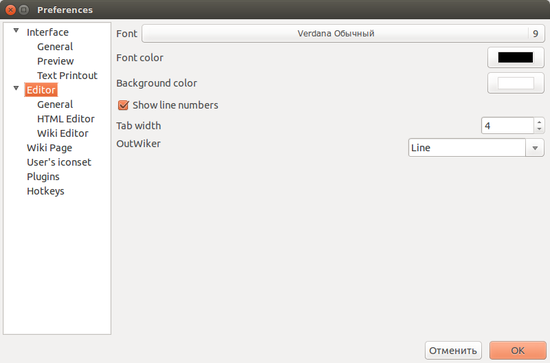
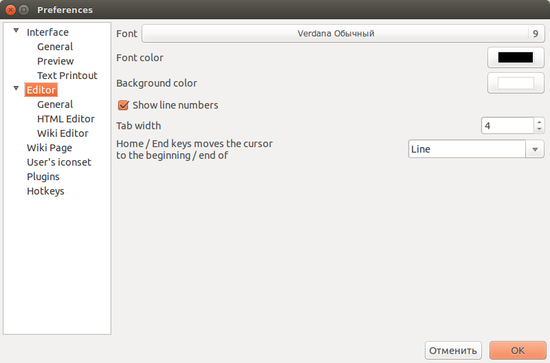
Addition to English help

Changed region(s): [[0.2164, 0.3636, 0.4945, 0.4545], [0.7418, 0.3636, 0.9891, 0.4545]]

diff --git a/src/help/help_en/Settings/__content.html b/src/help/help_en/Settings/__content.html
@@ -40,7 +40,7 @@ The portable mode switched on if <i>outwiker.ini</i> file exists in the same fol
 <br>
 If OutWiker executed in the normal mode, under <b>Windows 7</b> and above the <i>outwiker.ini</i> file will be locating in the <i>C:\Users\USERNAME\AppData\Roaming\outwiker</i> or analogous user's profile folder. In the same place will be locating folders for the plug-ins, user's styles and icons.<br>
 <br>
-Under <b>Linux</b> settings file location is able to depend on the <i>XDG_CONFIG_HOME</i> environment variable. If the <i>XDG_CONFIG_HOME</i> environment variable is not setted, <i>outwiker.ini</i> file will be located from <i>~/.config/outwiker/outwiker.ini</i>.<br>
+Under <b>Linux</b> settings file location is able to depend on the <i>XDG_CONFIG_HOME</i> environment variable. If the <i>XDG_CONFIG_HOME</i> environment variable is not set, <i>outwiker.ini</i> file will be located from <i>~/.config/outwiker/outwiker.ini</i>.<br>
 <br>
 Later in this section will be described the preferences. The dialog for the change preferences is called by <b>Edit - Preferences...</b> menu item.<br>
 <br>
@@ -49,116 +49,126 @@ Later in this section will be described the preferences. The dialog for the chan
 <br>
 <div align="center"><a href="__attach/outwiker_opt_01.png"><img src="__attach/__thumb/th_width_550_outwiker_opt_01.png"/></a></div><br>
 <br>
-Первые несколько флажков предназначены для установки поведения иконки программы в трее (области рядом с часами под Windows).<br>
+The first flags destined for the change behavior a program icon in the tray (the region near the system clock under Windows).<br>
 <br>
-Если установлен флажок <b>Сворачивать в трей</b>, то при нажатии кнопки "Свернуть" главного окна, OutWiker не будет отображаться на панели задач, но появится значок в трее. Такое поведение удобно в тех случаях, когда программа у вас запущена бо&#769;льшую часть времени.<br>
+If <b>Minimize to tray</b> flag is set, when the "Minimize" button of the main window will be clicked, the main window will be hidden on the taskbar, but program icon will be showed in the tray panel. Such behavior is convenient if OutWiker is launching most of the time.<br>
 <br>
-Флажок <b>Запускаться свернутым в трей</b> указывает программе, что при ее запуске нужно сразу скрыть главное окно. Это может быть удобно в тех случаях, если OutWiker у вас запускается из автозагрузки при старте операционной системы.<br>
+The <b>Start iconized</b> flag indicates what OutWiker must hide main window by starting. Such behavior is convenient if OutWiker was added to system autorun.<br>
 <br>
-Флажок <b>Всегда показывать иконку в трее</b> указывает программе, что данная иконка должна быть видна всегда, а не только когда программа находится в свернутом состоянии.<br>
+The <b>Always show tray icon</b> flag indicated what the tray icon must by showed always and not only in the minimized state.<br>
 <br>
-Если установлен флажок <b>Сворачивать при закрытии окна</b>, то при нажатии кнопки закрытия главного окна программа не будет завершаться, а только лишь сворачиваться. Для выхода из программы нужно будет использовать пункт меню <b>Файл - Выход...</b><br>
+The <b>Minimize on close window</b> flag indicated what the program must not closed but minimize only. That to terminate OutWiker, it is necessary select <b>File - Exit...</b> menu item.<br>
 <br>
-Если установлен флажок <b>Спрашивать подтверждение перед выходом</b>, то программа перед тем как завершить свою работу спросит у вас, действительно ли вы хотите выйти из программы. Поскольку все данные OutWiker сохраняет достаточно часто, а такие подтверждения нужны в первую очередь для того, чтобы не потерять введенные данные, то особого смысла от наличия этой настройки нет, возможно, в будущем она будет убрана.<br>
+The <b>Ask befor exit</b> flag indicated what the program must ask the exit confirmation. So long as OutWiker saves the notes text sufficiently oft, and such confirmations in the others programs need to save the entered data, the purport of this behavior is no matter. Is possible this flag will be removed in the next versions.<br>
 <br>
-Поле ввода <b>Интервал автосохранения</b> устанавливает как часто будет сохраняться открытая в данный момент заметка. Эта величина задается в секундах, если она равна 0, то автосохранение по таймеру будет отключено. Кроме как по таймеру, заметки сохраняются и при других событиях: при выходе из программы, при переключении между заметками, при переключении между вкладками "Вики", "Просмотр" и "HTML" и др.<br>
+The <b>Autosave interval</b> input field sets how often a current note will have saved. This value is set in seconds. If this value equal 0, autosaving will be disabled. Besides by timer the notes are saving by other events: by exit from program, switching between notes, switching between "Wiki", "Preview" and "HTML" tabs and other.<br>
 <br>
-Поле ввода <b>Длина истории открытых файлов</b> устанавливает насколько длинным должен быть список последних открытых вики в меню <b>Файл</b>.<br>
+The <b>Recent files history length</b> input field sets so far as long must be list of the recent opened files in the <b>File</b> menu.<br>
 <br>
-Если установлен флажок <b>При запуске открывать последний открытый файл</b>, то после перезапуска программы вам не придется заново искать и открывать список заметок, который был открыт в прошлый раз - он будет открыт автоматически.<br>
+If the <b>Automatically open the recent file</b> flag have set, then after restart OutWiker the recent wiki will be opened automatically.<br>
 <br>
-Поле ввода <b>Формат заголовка главного окна</b> позволяет установить, как должен выглядеть заголовок главного окна программы. В данном поле можно использовать макросы подстановки <b>{page}</b> и <b>{file}</b>, которые будут заменены на заголовок текущей страницы и дерева заметок в целом соответственно.<br>
+The <b>Main window title format</b> input field sets how should look title of the main window. In this field can use the macros <b>{page}</b> and <b>{file}</b> what will be replaced to title of the current page and title of the notes tree accordingly.<br>
 <br>
-С помощью поля ввода <b>Формат даты и времени</b> можно установить формат, в котором будут отображаться даты создания и редактирования страниц в различных частях программы, например, справа в статусной панели. OutWiker использует формат даты и времени, <a href="https://docs.python.org/2/library/datetime.html#strftime-and-strptime-behavior">применяемый в языке Python</a>, но запоминать его не нужно, поскольку справа от поля ввода есть кнопка, при нажатии на которую будет открыто меню, содержащее все возможные элементы данного формата.<br>
+The <b>Main window title format</b> input field sets how should look the creation and modification dates in different program parts, for example to the right in statusbar. OutWiker uses date format from <a href="https://docs.python.org/2/library/datetime.html#strftime-and-strptime-behavior">Python language</a>, but it should't remember since to the right of the input field disposes button, that invokes popup menu with all macros from this format.<br>
 <br>
-С помощью переключателя <b>Язык</b> можно выбрать один из поддерживаемых языков интерфейса. Если выбран пункт "Авто", то язык будет выбиратсья автоматически в зависимости от настроек операционной системы. Если вы хотите помочь перевести интерфейс программы на какой-нибудь еще язык, то это можно сделать с помощью веб-сервиса <a href="https://crowdin.com/project/outwiker">crowdin.com</a>.<br>
+The <b>Language</b> field sets the interface language. If this field was being set to "Auto", the language will be selected automatically depending on the operating system settings. If you want to translate interface to other language, you can use <a href="https://crowdin.com/project/outwiker">crowdin.com</a> web service.<br>
+<br>
 <br>
 <h2><a id="view"></a> Interface - Preview</h2>
 <br>
 <div align="center"><a href="__attach/outwiker_opt_02.png"><img src="__attach/__thumb/th_width_550_outwiker_opt_02.png"/></a></div><br>
 <br>
-Данная вкладка отвечает за общий внешний вид <a href="page://__0cc8f2c6-754c-4aa8-b118-561b930e9955">HTML-страницы</a> и <a href="page://__dd8b23a1-6787-42bb-9b58-c78a656688e2">викистраниц</a> в режиме просмотра. Здесь можно задать размер и начертание шрифта (группа параметров <b>Шрифт</b>), который будет использоваться на странице по умолчанию, а также добавить CSS-стили, которые будут вставлены во все страницы данного типа.<br>
+This section is responsible for the appearance <a href="page://__0cc8f2c6-754c-4aa8-b118-561b930e9955">HTML pages</a> and <a href="page://__dd8b23a1-6787-42bb-9b58-c78a656688e2">wiki pages</a> in preview mode. In this section can set default font size and style (by parameters group <b>Font</b>) as well as add custom CSS styles which will be added to all pages referred above types.<br>
+<br>
 <br>
 <h2><a id="print"></a> Interface - Text Printout</h2>
 <br>
 <div align="center"><a href="__attach/outwiker_opt_03.png"><img src="__attach/__thumb/th_width_550_outwiker_opt_03.png"/></a></div><br>
 <br>
-Данный раздел позволяет настроить параметры печати текстовых заметок, а также <a href="page://__0cc8f2c6-754c-4aa8-b118-561b930e9955">HTML-страниц</a> в режиме <i>HTML</i> и <a href="page://__dd8b23a1-6787-42bb-9b58-c78a656688e2">викистраниц</a> в режимах <i>Вики</i> и <i>HTML</i>.<br>
+This section allow to change parameters of the printing of the <a href="page://__b32aa743-384d-493f-aad4-4c4cbf945fbb">text pages</a> as well as <a href="page://__0cc8f2c6-754c-4aa8-b118-561b930e9955">HTML pages</a> in <i>HTML</i> mode and <a href="page://__dd8b23a1-6787-42bb-9b58-c78a656688e2">wiki pages</a> in <i>Wiki</i> and <i>HTML</i> modes.<br>
 <br>
-На этой вкладке можно настроить размер и начертание шрифта (группа параметров <b>Шрифт</b>), которым будет печататься текст, а также задать параметры страницы. Внешний вид диалога печати будет различаться в зависимости от операционной системы и драйверов к принтеру.<br>
+In this section can change font size and style (the parameters group <b>Font</b>), using which will be printed text, also can change page parameters. Dialog appearance may vary depending on operating system and printer drivers.<br>
 <br>
+ <br>
 <h2><a id="editor"></a> Editor - General</h2>
 <br>
 <div align="center"><a href="__attach/outwiker_opt_04.png"><img src="__attach/__thumb/th_width_550_outwiker_opt_04.png"/></a></div><br>
 <br>
-Данный раздел содержит настройки текстового редактора, который используется для ввода заметок. Здесь можно задать начертание и размер шрифта (группа параметров <b>Шрифт</b>), а кроме того установить цвет фона редактора (параметр <b>Цвет фона</b>) и подходящий для данного фона цвет шрифта (параметр <b>Цвет шрифта</b>). Например, вы можете установить инверсную цветовую гамму, когда фон отображается черным цветом, а шрифт белым.<br>
+This section contains settings for the text editor, which uses for input the notes. Here can set font size, style and color (the parameters group <b>Font</b>) and background color (the parameters group <b>Font color</b>). For example you can set inverted colors: black background and white text color.<br>
 <br>
-Здесь же можно включить или отключить отображение номеров строк заметок, установив или сбросив флажок <b>Показывать номера строк</b>. Номера строк располагаются слева от основного поля ввода заметок.<br>
+Here can enable or disable the display of line numbers (by <b>Show line numbers</b> flag). The line numbers located on the left of the main input field.<br>
 <br>
-С помощью параметра <b>Размер табуляции</b> можно установить ширину символа табуляции.<br>
+The <b>Tab width</b> parameter allow to change size of the tab symbol.<br>
 <br>
-Текстовый редактор может реагировать на нажатие клавиш Home / End двумя способами, либо при нажатии этих клавиш курсор будет перемещаться на начало / в конец текущей строки, либо на начало / в конец текущего абзаца (с учетом переноса строк). Это поведение переключается с помощью выпадающего списка <b>Клавиши Home / End переносят курсор к началу / концу... Строки / Абзаца</b>.<br>
+Editor can respond on the Home / End keys two ways. When this keys are pressed the cursor will be moved to begin / end current line or current paragraph (in view of wrapping). This behavior can select with <b>Home / End keys moves the cursor to the beginning / end of... </b> parameter.<br>
+<br>
 <br>
 <h2><a id="htmleditor"></a> Editor - HTML Editor</h2>
 <br>
 <div align="center"><a href="__attach/outwiker_opt_05.png"><img src="__attach/__thumb/th_width_550_outwiker_opt_05.png"/></a></div><br>
 <br>
-Данный раздел содержит настройки для раскраски HTML-кода на <a href="page://__0cc8f2c6-754c-4aa8-b118-561b930e9955">HTML-странице</a> или на вкладке <i>HTML</i> <a href="page://__dd8b23a1-6787-42bb-9b58-c78a656688e2">викистраницы</a>. Здесь можно задать цвета и начертание шрифта для HTML-тегов, их атрибутов, чисел, HTML-комментариев, строк в формате HTML, а также ошибочных HTML-элементов.<br>
+This section contains settings for HTML code highliting on the <a href="page://__0cc8f2c6-754c-4aa8-b118-561b930e9955">HTML page</a> and on <i>HTML</i> tab for <a href="page://__dd8b23a1-6787-42bb-9b58-c78a656688e2">wiki page</a>. Here can change font colors and styles for HTML tags, their attributes, numbers, comments, strings in HTML format and invalid HTML elements.<br>
 <br>
-Имя шрифта и его размер устанавливаются в разделе <a href="#editor">Редактор - Общее</a>.<br>
+The font name can change in <a href="#editor">Editor - General</a> section.<br>
+<br>
 <br>
 <h2><a id="wikieditor"></a> Editor - Wiki Editor</h2>
 <br>
 <div align="center"><a href="__attach/outwiker_opt_06.png"><img src="__attach/__thumb/th_width_550_outwiker_opt_06.png"/></a></div><br>
 <br>
-Данный раздел содержит настройки для раскраски некоторых элементов викинотации: ссылок, заголовков и <a href="page://__b016f2ed-a6c0-4dca-8d17-508955f4cc7c">викикоманд</a> (то, что располагается между скобками (: ... :) )<br>
+This section contains settings for some wiki code highlighting: links, headers, <a href="page://__b016f2ed-a6c0-4dca-8d17-508955f4cc7c">wiki commands</a> (that is located between the brackets (: ... :) )<br>
 <br>
-Имя шрифта и его размер устанавливаются в разделе <a href="#editor">Редактор - Общее</a>.<br>
+Font name and size can change in <a href="#editor">Editor - General</a> section.<br>
+<br>
 <br>
 <h2><a id="wikipage"></a> Wiki Page</h2>
 <br>
 <div align="center"><a href="__attach/outwiker_opt_07.png"><img src="__attach/__thumb/th_width_550_outwiker_opt_07.png"/></a></div><br>
 <br>
-Данный раздел содержит параметры, влияющие на внешний вид <a href="page://__dd8b23a1-6787-42bb-9b58-c78a656688e2">викистраниц</a>. <br>
+This section contains parameters which influences on <a href="page://__dd8b23a1-6787-42bb-9b58-c78a656688e2">wiki page</a> appearance<br>
 <br>
-Когда вы переключаетесь на викистранице в режим <i>Просмотр</i>, то незаметно для вас происходит страницы в формате HTML, именно на и отображается в упомянутом выше режиме. В большинстве случаев о том, как выглядит полученный HTML-код можно не задумываться. Однако для некоторых задач (например, если вы используете OutWiker для создания страниц сайта или записей в блоге) желательно получить "исходный" HTML-код. Для этого служит режим <i>HTML</i>, но поскольку этот режим нужен далеко не всем, то по умолчанию вкладка для переключения в этот режим скрыта. Чтобы ее показать, нужно установить флажок <b>Показывать вкладку с кодом HTML</b>.<br>
+During the switching to <i>Preview</i> mode on the wiki page is created HTML code transparent to the user. Exactly this code will be showed in <i>Preview</i> mode. In most time user needn’t think about this code. However for some tasks (for example, if you use OutWiker for blogging) it might be as well to get "raw" HTML code. For this the <i>HTML</i> mode intended. Since this mode need not for everyone, tab of this mode is hidden default. That show this tab need set <b>Show HTML Code Tab</b> flag.<br>
 <br>
-С помощью параметра <b>Размер миниатюр</b> можно установить размер миниатюр по умолчанию, которые будут создаваться с помощью викитега <a href="page://__22953e02-77ed-4b41-a5fe-a75e0d6a431e">%thumb%Attach:имя_файла%%</a>, если размер миниатюры не задан явным образом в виде параметра этого викитега.<br>
+By <b>Thumbnail size</b> parameter can set default thumbnails size. Thumbnails is created by  <a href="page://__22953e02-77ed-4b41-a5fe-a75e0d6a431e">%thumb%Attach:filename%%</a> wiki tag.<br>
 <br>
-<a href="page://__97bae762-abb7-489e-a1f4-1b0c9f6916d1">Ссылки</a> на викистраницах могут быть представлены в двух форматах:<br>
+<a href="page://__97bae762-abb7-489e-a1f4-1b0c9f6916d1">Links</a> on the wiki pages can be in two formats:<br>
 <ul>
-<li>[[Ссылка -> Комментарий ссылки]]</li>
-<li>[[Комментарий ссылки | Ссылка]]</li>
+<li>[[Link -> Comment]]</li>
+<li>[[Comment | Link]]</li>
 </ul>
-При использовании диалога, вызываемого с помощью пункта меню <i>Вики - Ссылка</i> или соответствующей кнопки на панели инструментов, ссылка может создаваться и в том, и в другом формате. То, какой из этих форматов будет использован, задается с помощью параметра <b>Стиль ссылок по умолчанию</b>.<br>
+When dialog for inserting the link used (dialog invoked by <i>Wiki - Link</i> menu item or corresponding button on toolbar), link must be created in both formats. The preferable format selected by <b>Default link style</b> parameter.<br>
 <br>
-Если вы создадите <a href="page://__dd8b23a1-6787-42bb-9b58-c78a656688e2">викистраницу</a> и оставите ее содержимое пустой (не должно быть даже пробелов), то при переключении в режим <i>Просмотр</i> вместо белого листа можно увидеть что-нибудь более полезное. Например, по умолчанию будет отображаться список прикрепленных файлов и список дочерних страниц. Это поведение можно изменить с помощью параметра <b>Шаблон для пустой страницы</b>.<br>
+If you create new <a href="page://__dd8b23a1-6787-42bb-9b58-c78a656688e2">wiki page</a> and leave its content empty (should not even be spaces), then after switching to <i>Preview</i> mode will be seeing something more useful than blank page. For example, default will be showed attachments list and child page list. This behavior can change with <b>Template for empty page</b> parameter.<br>
+<br>
 <br>
 <h2><a id="icons"></a> User's iconset</h2>
 <br>
 <div align="center"><a href="__attach/outwiker_opt_08.png"><img src="__attach/__thumb/th_width_550_outwiker_opt_08.png"/></a></div><br>
 <br>
-Начиная с версии OutWiker 1.9, у пользователей появилась возможность выбирать для заметок не только значки, прилагающиеся к программе, но и добавлять свои. Для этого предназначен раздел <i>Значки пользователя</i>.<br>
+Since version OutWiker 1.9 you can set for pages not only predefined icons, but you can load own icons. For this intended the section <b>User's iconset</b>.<br>
 <br>
-Пользовательские значки, как и стандартные, делятся на группы. С программной точки зрения группы значков - это обычные папки, располагающиеся в папке <i>icons</i> внутри папки настроек (см. раздел <a href="#ini">Расположение файла настроек</a>). Но об этом можно не задумываться, поскольку все действия со значками и их группами осуществляются через пользовательский интерфейс данного раздела.<br>
+User's and standard icons divide by groups. From the software standpoint icons groups are usual folders inside <i>icons</i> folder. The <i>icons</i> folder located inside settings folder (see <a href="#ini">Settings file location</a> section). User needn’t think about this since all actions with icons and groups can be accomplished by user interface this section.<br>
 <br>
-В левой части окна располагается список пользовательских групп (значки могут располагаться и вне групп, непосредственно в папке <i>icons</i>, что соответствует пункту <b>Без групп</b>). С помощью кнопок в нижней части окна можно создавать, удалять или переименовывать группы.<br>
+On the left located user's groups list. Icons can be located outside any group, direct in <i>icons</i> folder, than correspond to <b>Not in groups</b> item. By buttons in the bottom can create, remove and rename icons groups.<br>
 <br>
-В правой части показываются значки в выбранном разделе. С помощью кнопок в нижней части окна можно добавлять и удалять значки, а также устанавливать значки в качестве обложки группы (в качестве значка, который будет отображаться слева от имени группы).<br>
+In the right located icons list for selected group. By buttons in the bottom can add and remove icons, as well as set icons as group cover (as well as icon, that will be showed on the left of group name).<br>
+<br>
 <br>
 <h2><a id="plugins"></a> Plugins</h2>
 <br>
 <div align="center"><a href="__attach/outwiker_opt_09.png"><img src="__attach/__thumb/th_width_550_outwiker_opt_09.png"/></a></div><br>
 <br>
-В данном разделе можно посмотреть список установленных (удачно загруженных) плагинов. При выборе плагина будет отображаться информация о нем: название, номер версии, краткое описание и, если есть, ссылка на сайт этого плагина.<br>
+In this section can view list installed (succesfully laoded) plug-ins. After plug-in selection will be showed information about: name, version number, short description and, if exists, link to plug-in page.<br>
 <br>
-Здесь же можно временно отключить ненужные в данный момент плагины (например, чтобы не захламлять интерфейс программы), не удаляя плагин.<br>
+In this section can disable unnecessary currently plug-ins without removing its files.<br>
+<br>
 <br>
 <h2><a id="hotkeys"></a> Hotkeys</h2>
 <br>
 <div align="center"><a href="__attach/outwiker_opt_10.png"><img src="__attach/__thumb/th_width_550_outwiker_opt_10.png"/></a></div><br>
 <br>
-В данном разделе можно поменять или установить горячие клавиши по умолчанию для вызова функций программы. В левой части окна располагается список всех возможных действий, для которых можно установить горячие клавиши, справа располагаются элементы управления для установки горячей клавиши и более подробное описание действия. Справа внизу отображается действие, которое уже использует данную горячую клавишу, чтобы видеть возможные конфликты.<br>
+In this section can change or set hotkeys for calling program actions. In the left located list of the all actions. In the right located controls to set hotkey and more detailed description for this action. In the right bottom showed action which uses current hotkey by this time, that to see possible conflicts.<br>
+<br>
 
 </body>
 </html>

diff --git a/src/help/help_ru/Настройки программы/__content.html b/src/help/help_ru/Настройки программы/__content.html
@@ -58,7 +58,7 @@ OutWiker хранит все настройки в файле <i>outwiker.ini</i
 <br>
 Если установлен флажок <b>Сворачивать при закрытии окна</b>, то при нажатии кнопки закрытия главного окна программа не будет завершаться, а только лишь сворачиваться. Для выхода из программы нужно будет использовать пункт меню <b>Файл - Выход...</b><br>
 <br>
-Если установлен флажок <b>Спрашивать подтверждение перед выходом</b>, то программа перед тем как завершить свою работу спросит у вас, действительно ли вы хотите выйти из программы. Поскольку все данные OutWiker сохраняет достаточно часто, а такие подтверждения нужны в первую очередь для того, чтобы не потерять введенные данные, то особого смысла от наличия этой настройки нет, возможно, в будущем она будет убрана.<br>
+Если установлен флажок <b>Спрашивать подтверждение перед выходом</b>, то программа перед тем как завершить свою работу спросит у вас, действительно ли вы хотите выйти из программы. Поскольку все данные OutWiker сохраняет достаточно часто, а такие подтверждения в других программах нужны в первую очередь для того, чтобы не потерять введенные данные, то особого смысла от наличия этой настройки нет, возможно, в будущем она будет убрана.<br>
 <br>
 Поле ввода <b>Интервал автосохранения</b> устанавливает как часто будет сохраняться открытая в данный момент заметка. Эта величина задается в секундах, если она равна 0, то автосохранение по таймеру будет отключено. Кроме как по таймеру, заметки сохраняются и при других событиях: при выходе из программы, при переключении между заметками, при переключении между вкладками "Вики", "Просмотр" и "HTML" и др.<br>
 <br>
@@ -76,7 +76,7 @@ OutWiker хранит все настройки в файле <i>outwiker.ini</i
 <br>
 <div align="center"><a href="__attach/outwiker_opt_02.png"><img src="__attach/__thumb/th_width_550_outwiker_opt_02.png"/></a></div><br>
 <br>
-Данная вкладка отвечает за общий внешний вид <a href="page://__7bd312fb-c3e4-4d9d-9267-cc394dbb9f20">HTML-страницы</a> и <a href="page://__19866d72-8d95-4e2c-8df1-6df0bd8f06c0">викистраниц</a> в режиме просмотра. Здесь можно задать размер и начертание шрифта (группа параметров <b>Шрифт</b>), который будет использоваться на странице по умолчанию, а также добавить CSS-стили, которые будут вставлены во все страницы данного типа.<br>
+Данный раздел отвечает за общий внешний вид <a href="page://__7bd312fb-c3e4-4d9d-9267-cc394dbb9f20">HTML-страницы</a> и <a href="page://__19866d72-8d95-4e2c-8df1-6df0bd8f06c0">викистраниц</a> в режиме просмотра. Здесь можно задать размер и начертание шрифта (группа параметров <b>Шрифт</b>), который будет использоваться на странице по умолчанию, а также добавить CSS-стили, которые будут вставлены во все страницы указанных типов типа.<br>
 <br>
 <h2><a id="print"></a> Интерфейс - Печать текста</h2>
 <br>
@@ -84,7 +84,7 @@ OutWiker хранит все настройки в файле <i>outwiker.ini</i
 <br>
 Данный раздел позволяет настроить параметры печати текстовых заметок, а также <a href="page://__7bd312fb-c3e4-4d9d-9267-cc394dbb9f20">HTML-страниц</a> в режиме <i>HTML</i> и <a href="page://__19866d72-8d95-4e2c-8df1-6df0bd8f06c0">викистраниц</a> в режимах <i>Вики</i> и <i>HTML</i>.<br>
 <br>
-На этой вкладке можно настроить размер и начертание шрифта (группа параметров <b>Шрифт</b>), которым будет печататься текст, а также задать параметры страницы. Внешний вид диалога печати будет различаться в зависимости от операционной системы и драйверов к принтеру.<br>
+В данном разделе можно настроить размер и начертание шрифта (группа параметров <b>Шрифт</b>), которым будет печататься текст, а также задать параметры страницы. Внешний вид диалога печати будет различаться в зависимости от операционной системы и драйверов к принтеру.<br>
 <br>
 <h2><a id="editor"></a> Редактор - Общее</h2>
 <br>
@@ -120,7 +120,7 @@ OutWiker хранит все настройки в файле <i>outwiker.ini</i
 <br>
 Данный раздел содержит параметры, влияющие на внешний вид <a href="page://__19866d72-8d95-4e2c-8df1-6df0bd8f06c0">викистраниц</a>. <br>
 <br>
-Когда вы переключаетесь на викистранице в режим <i>Просмотр</i>, то незаметно для вас происходит страницы в формате HTML, именно на и отображается в упомянутом выше режиме. В большинстве случаев о том, как выглядит полученный HTML-код можно не задумываться. Однако для некоторых задач (например, если вы используете OutWiker для создания страниц сайта или записей в блоге) желательно получить "исходный" HTML-код. Для этого служит режим <i>HTML</i>, но поскольку этот режим нужен далеко не всем, то по умолчанию вкладка для переключения в этот режим скрыта. Чтобы ее показать, нужно установить флажок <b>Показывать вкладку с кодом HTML</b>.<br>
+Во время переключения на викистранице в режим <i>Просмотр</i>, незаметно для пользователя происходит создание HTML-кода страницы, именно он и отображается в этом режиме. В большинстве случаев о том, как выглядит полученный HTML-код можно не задумываться. Однако для некоторых задач (например, если вы используете OutWiker для создания страниц сайта или записей в блоге) желательно получить "исходный" HTML-код. Для этого служит режим <i>HTML</i>, но поскольку этот режим нужен далеко не всем, то по умолчанию вкладка для переключения в этот режим скрыта. Чтобы ее показать, нужно установить флажок <b>Показывать вкладку с кодом HTML</b>.<br>
 <br>
 С помощью параметра <b>Размер миниатюр</b> можно установить размер миниатюр по умолчанию, которые будут создаваться с помощью викитега <a href="page://__81525846-01d4-443e-a631-cfd4010abf64">%thumb%Attach:имя_файла%%</a>, если размер миниатюры не задан явным образом в виде параметра этого викитега.<br>
 <br>
@@ -157,7 +157,7 @@ OutWiker хранит все настройки в файле <i>outwiker.ini</i
 <br>
 <div align="center"><a href="__attach/outwiker_opt_10.png"><img src="__attach/__thumb/th_width_550_outwiker_opt_10.png"/></a></div><br>
 <br>
-В данном разделе можно поменять или установить горячие клавиши по умолчанию для вызова функций программы. В левой части окна располагается список всех возможных действий, для которых можно установить горячие клавиши, справа располагаются элементы управления для установки горячей клавиши и более подробное описание действия. Справа внизу отображается действие, которое уже использует данную горячую клавишу, чтобы видеть возможные конфликты.<br>
+В данном разделе можно поменять или установить горячие клавиши для вызова функций программы. В левой части окна располагается список всех возможных действий, для которых можно установить горячие клавиши, справа располагаются элементы управления для установки горячей клавиши и более подробное описание действия. Справа внизу отображается действие, которое уже использует данную горячую клавишу, чтобы видеть возможные конфликты.<br>
 
 </body>
 </html>
